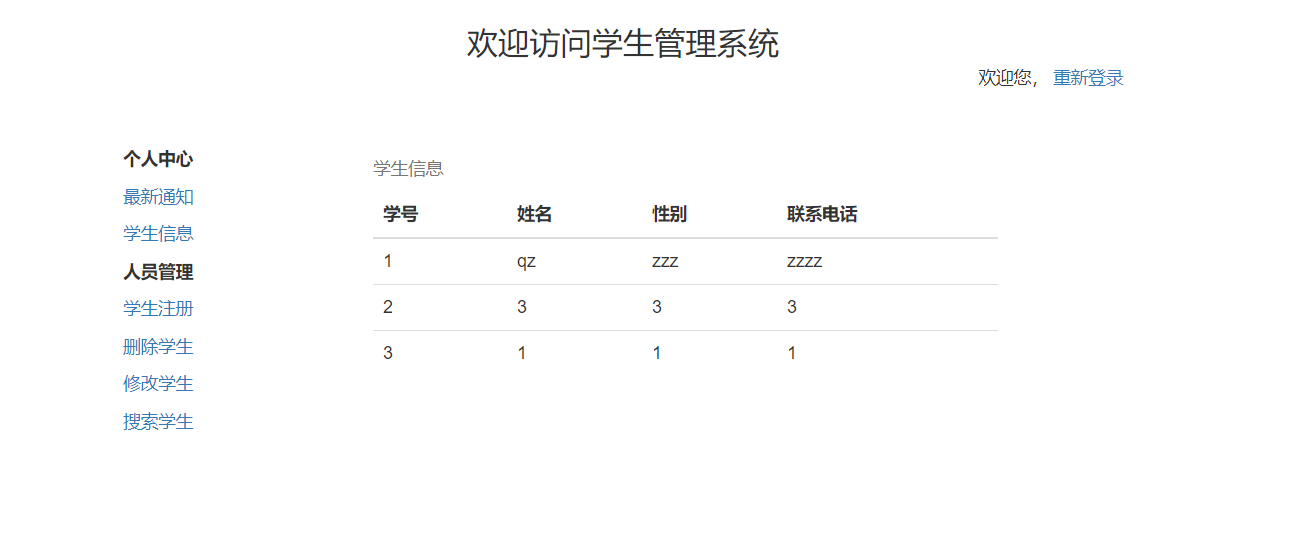
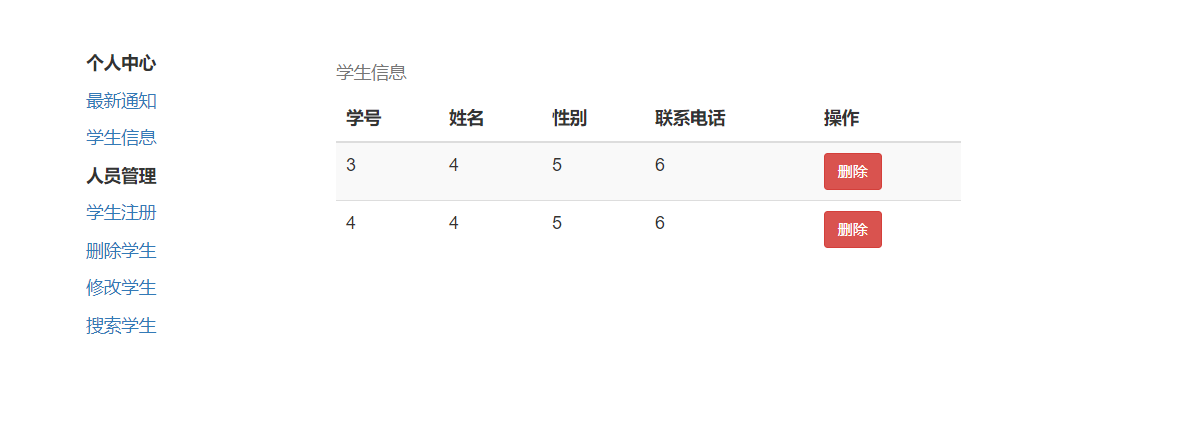
优化了部分细节，添加了快捷删除功能

diff --git a/src/main/java/com/example/demo/controller/StudentController.java b/src/main/java/com/example/demo/controller/StudentController.java
@@ -38,7 +38,7 @@ public class StudentController {
             studentDao.save(student);
             return student;
         }
-      return null;
+        return null;
     }
 
     /**
@@ -59,12 +59,12 @@ public class StudentController {
     @ResponseBody
     @PostMapping("/Supdate")
     public Student Update(@RequestBody Student student){
-       Student newStudent =studentDao.getByCard(student.getCard());
-       if(newStudent!=null){
-           newStudent.setName(student.getName());
-           newStudent.setSex(student.getSex());
-           newStudent.setPhone(student.getPhone());
-           studentDao.save(newStudent);
+        Student newStudent =studentDao.getByCard(student.getCard());
+        if(newStudent!=null){
+            newStudent.setName(student.getName());
+            newStudent.setSex(student.getSex());
+            newStudent.setPhone(student.getPhone());
+            studentDao.save(newStudent);
             return newStudent;
         }
         return null;
@@ -88,6 +88,21 @@ public class StudentController {
     @PostMapping("/Delete")
     public void Delete(String card){
         studentDao.deleteByCard(card);
+    }
+
+
+
+    /**
+     * 快捷删除学生
+     * @param card
+     * @return
+     */
+    @ApiOperation(value = "删除")
+    @Transactional
+    @GetMapping("/Delete/{card}")
+    public String delete(@PathVariable("card") String card){
+        studentDao.deleteByCard(card);
+        return "redirect:/message";
     }
 
     /**
